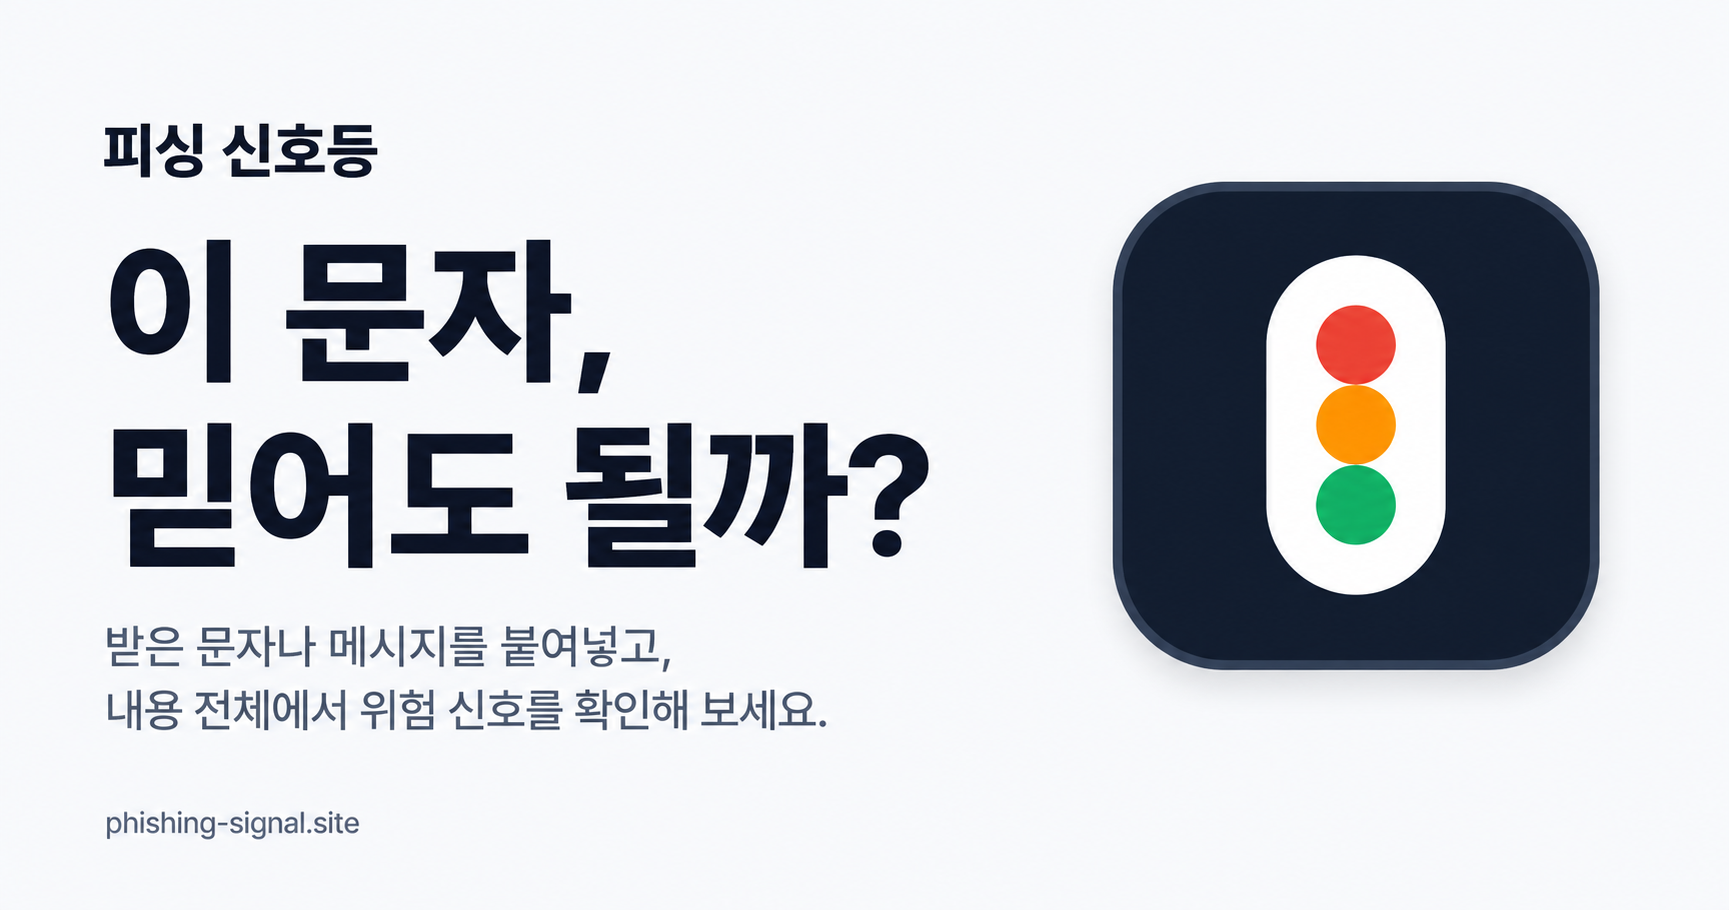
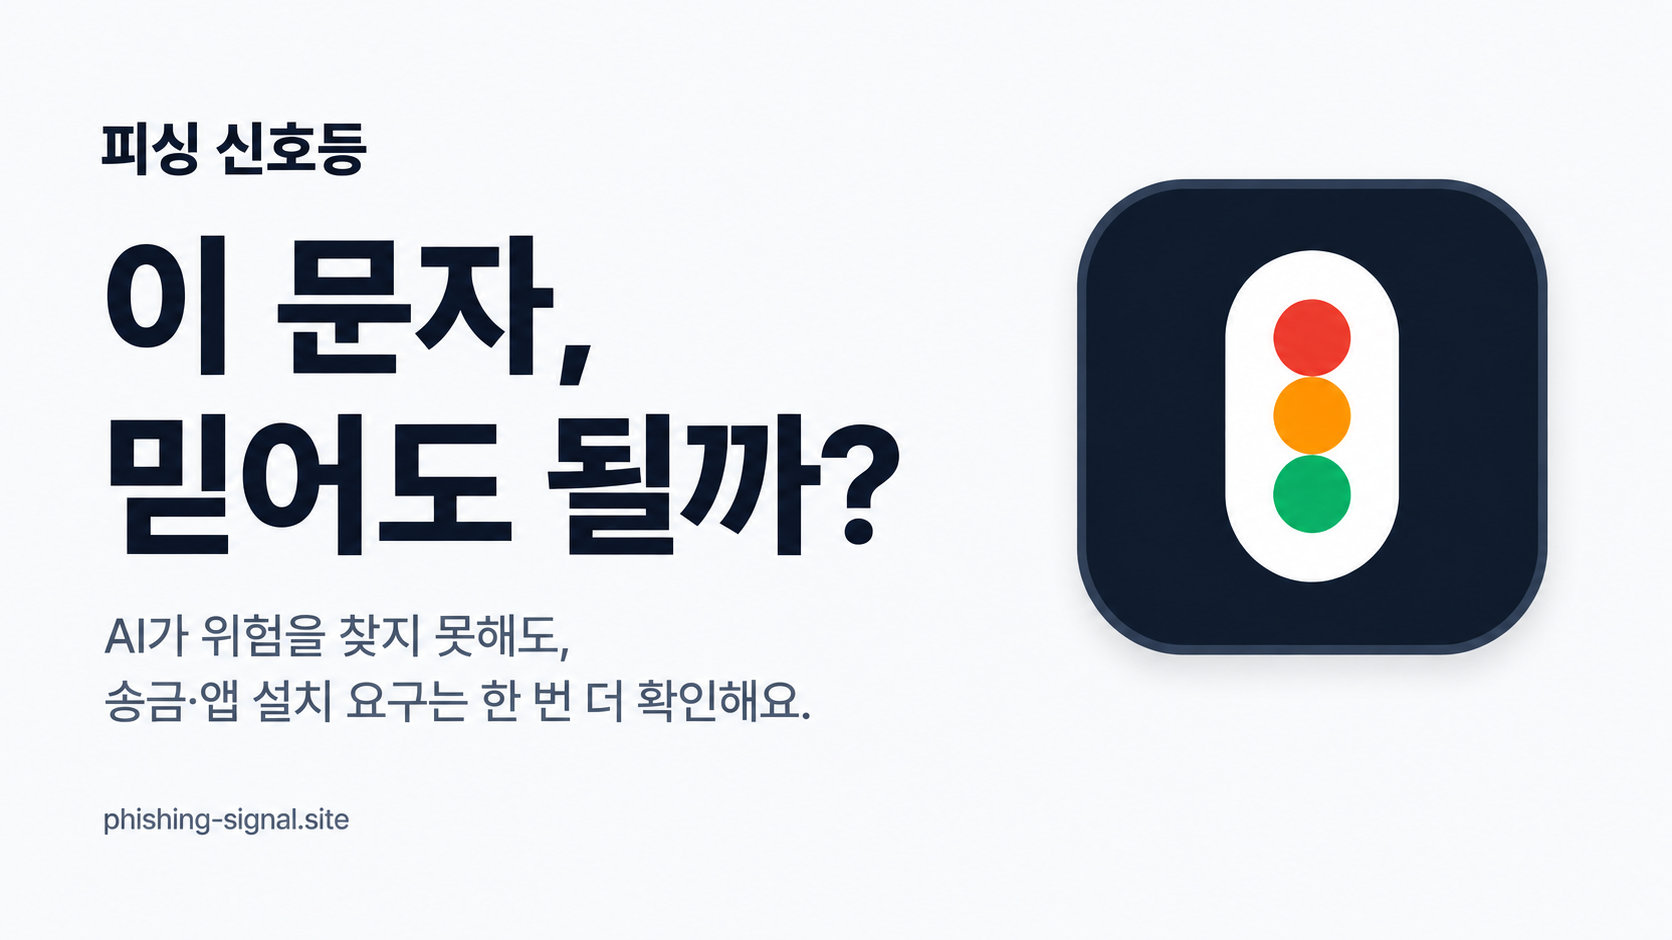
docs(showcase): 표지에 행동 확인 메시지 반영

diff --git a/docs/demo.md b/docs/demo.md
@@ -37,6 +37,6 @@
 - 촬영: 2026.09.20, 공개 운영 서비스, 데스크톱 Chromium에서 실제 페이지의 1600×900 배치를 2배로 렌더링했습니다. 제출 출력은 모두 3200×1800(16:9) PNG입니다.
 - 내장 합성 예시와 시연용 피해 상황 선택만 사용했습니다. 개인의 실제 연락·피해 정보는 포함하지 않았습니다.
 - 결과 문구를 편집하거나 미구현 기능을 덧그리지 않았습니다. 캡처 도구가 제외한 가장자리만 바깥 여백으로 채워 16:9 비율을 맞췄습니다. 원본 캡처 픽셀은 리사이즈·색 보정 없이 보존했습니다.
-- 대표 이미지는 실제 서비스의 행동 확인 화면입니다. 판단 흐름 이미지는 홈페이지의 실제 CSS 색상·글꼴·모서리 값과 브랜드 마크를 재사용한 설명용 도식이며, 벡터 SVG와 3200×1800 PNG를 제공합니다.
+- README 표지는 기존 브랜드 이미지를 바탕으로 설명 문구를 편집한 이미지입니다. 위의 화면 5장은 실제 운영 화면 캡처입니다. 판단 흐름 이미지는 홈페이지의 실제 CSS 색상·글꼴·모서리 값과 브랜드 마크를 재사용한 설명용 도식이며, 벡터 SVG와 3200×1800 PNG를 제공합니다.
 - 이 시연은 알려진 예시의 기능 확인입니다. 독립 성능 평가나 실사용자 피해 예방 효과의 증거가 아닙니다.
 - 휴대전화 실기기 성능 검증은 포함하지 않습니다.
